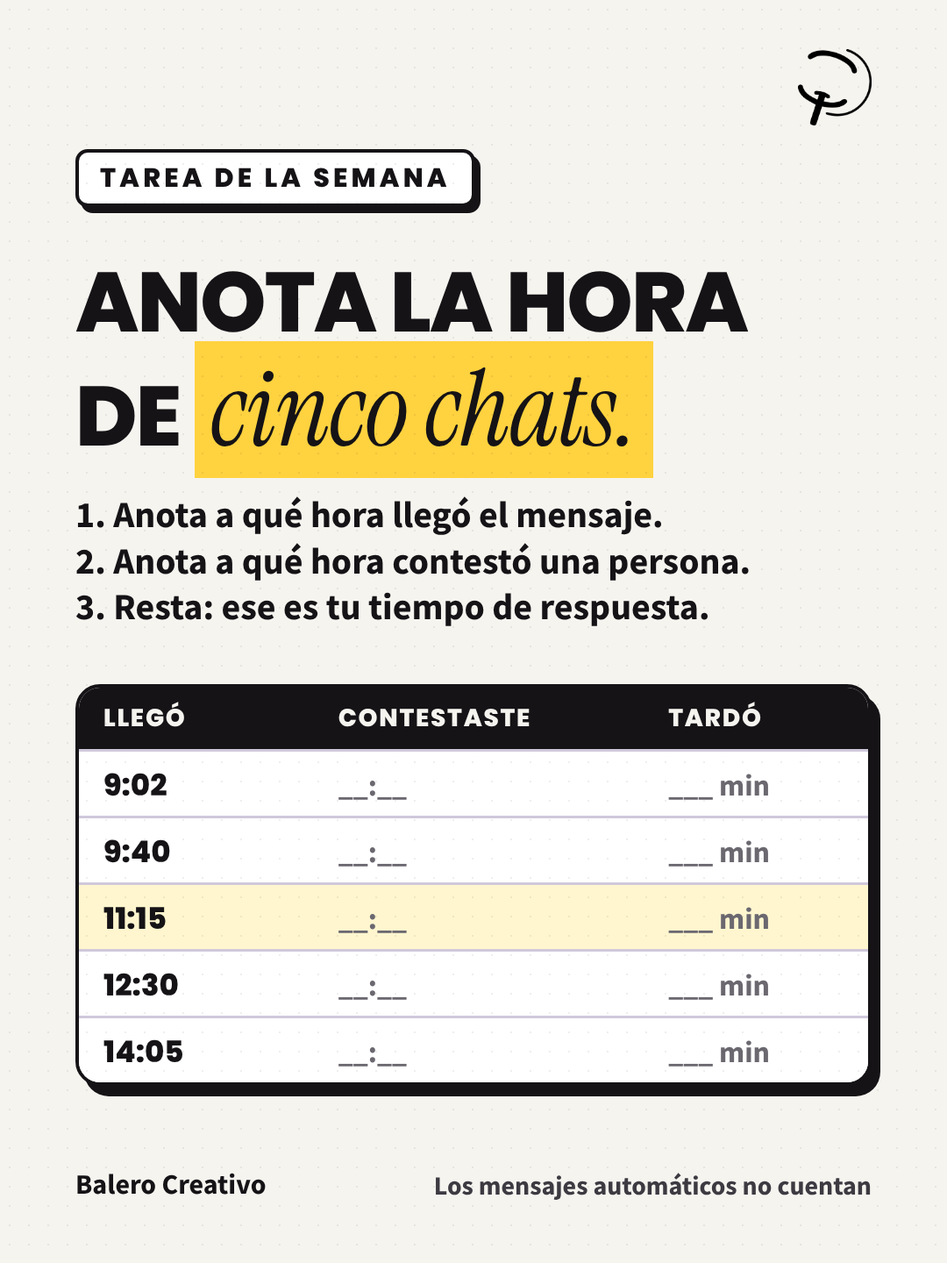
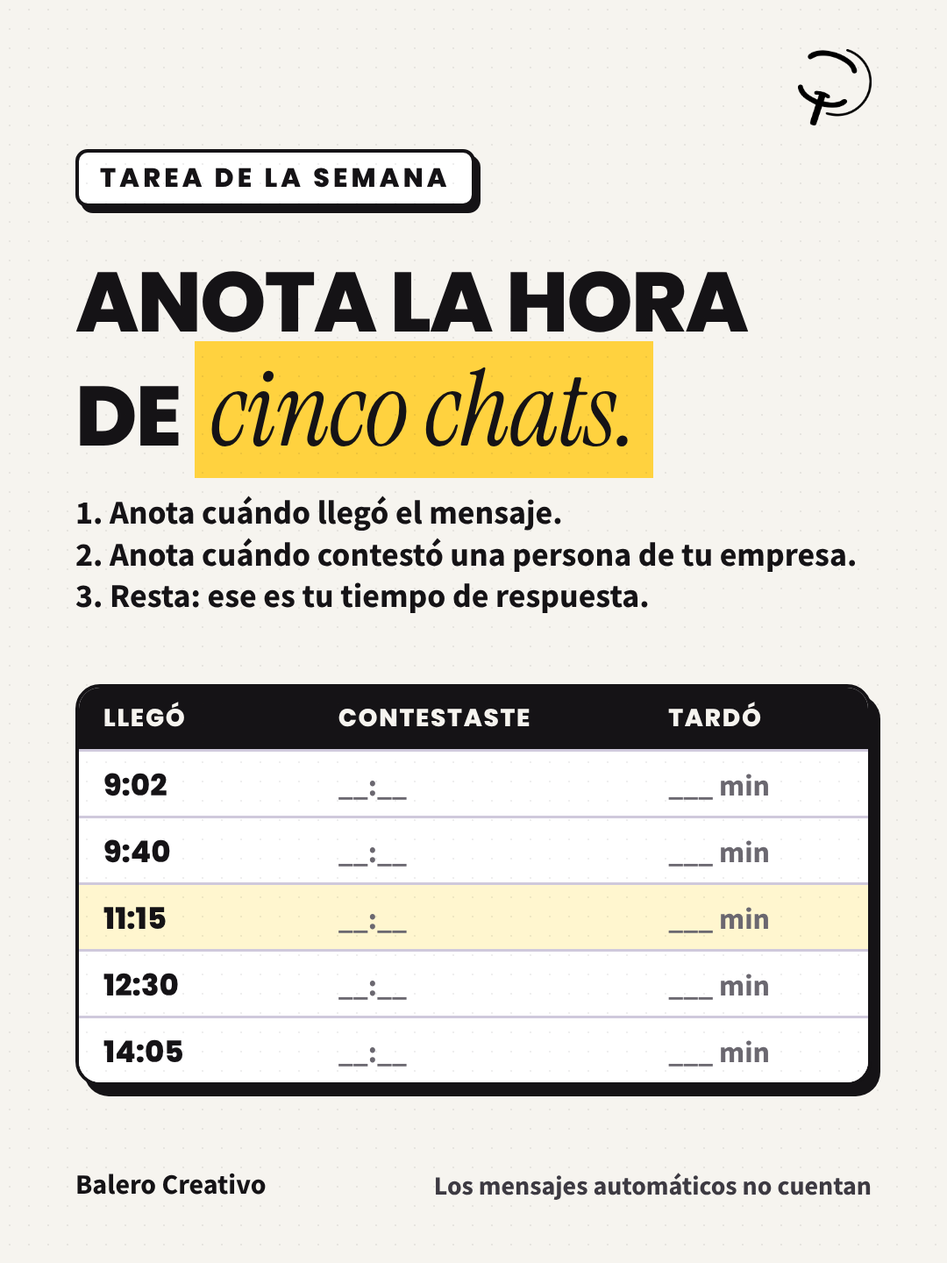
Semana 17: precisar 'una persona de tu empresa' en la imagen y el texto del post del viernes
Claude-Session: https://claude.ai/code/session_01Bq7ZC7FDz5LcdZBgNXTuBm

Changed region(s): [[0.0611, 0.375, 0.8861, 0.5]]

diff --git a/clientes/balero/diseno/2026-11/estilo-editorial/semana/sem17b.html b/clientes/balero/diseno/2026-11/estilo-editorial/semana/sem17b.html
@@ -60,4 +60,4 @@ body{background:#888}
 .meter{position:absolute;left:86px;right:86px;background:#fff;border:4px solid #151316;border-radius:26px;box-shadow:10px 12px 0 #151316;overflow:hidden}
 
 .bigy{position:absolute;left:86px;font:800 330px/.9 Poppins;background:#FFD23F;padding:10px 30px 24px;letter-spacing:-.04em}
-</style></head><body><div class="s" id="s1"><div class="dots"><i style="background:#151316"></i><i style="background:#cfc9dc"></i></div><img class="logo" src="/home/user/balero/.claude/skills/balero-imagenes/assets/logo-balero.png"><style>.dots{display:none}</style><div class="chip">TAREA DE LA SEMANA</div><div class="t" style="top:290px;font-size:96px">Anota la hora<br>de <span class="serif" style="font-size:1.25em;text-transform:none;font-weight:400;background:#FFD23F;padding:0 18px">cinco chats.</span></div><div style="position:absolute;left:86px;top:560px;width:880px;font:700 42px/1.25 'Source Sans Pro',sans-serif;color:#151316">1. Anota a qué hora llegó el mensaje.<br>2. Anota a qué hora contestó una persona.<br>3. Resta: ese es tu tiempo de respuesta.</div><div style="position:absolute;left:86px;top:780px;width:908px;background:#fff;border:4px solid #151316;border-radius:28px;box-shadow:10px 12px 0 #151316;overflow:hidden"><div style="display:flex;height:70px;background:#151316"><div style="width:270px;padding:0 28px;font:800 28px/70px Poppins;color:#F6F4EF;letter-spacing:.06em;white-space:nowrap">LLEGÓ</div><div style="width:380px;padding:0 28px;font:800 28px/70px Poppins;color:#F6F4EF;letter-spacing:.06em;white-space:nowrap">CONTESTASTE</div><div style="width:258px;padding:0 28px;font:800 28px/70px Poppins;color:#F6F4EF;letter-spacing:.06em;white-space:nowrap">TARDÓ</div></div><div style="display:flex;height:76px;border-top:3px solid #cfc9dc;background:#fff"><div style="width:270px;padding:0 28px;font:800 34px/76px Poppins">9:02</div><div style="width:380px;padding:0 28px;font:700 34px/76px 'Source Sans Pro',sans-serif;color:#6B6870">__:__</div><div style="width:258px;padding:0 28px;font:700 34px/76px 'Source Sans Pro',sans-serif;color:#6B6870">___ min</div></div><div style="display:flex;height:76px;border-top:3px solid #cfc9dc;background:#fff"><div style="width:270px;padding:0 28px;font:800 34px/76px Poppins">9:40</div><div style="width:380px;padding:0 28px;font:700 34px/76px 'Source Sans Pro',sans-serif;color:#6B6870">__:__</div><div style="width:258px;padding:0 28px;font:700 34px/76px 'Source Sans Pro',sans-serif;color:#6B6870">___ min</div></div><div style="display:flex;height:76px;border-top:3px solid #cfc9dc;background:#FFF6CF"><div style="width:270px;padding:0 28px;font:800 34px/76px Poppins">11:15</div><div style="width:380px;padding:0 28px;font:700 34px/76px 'Source Sans Pro',sans-serif;color:#6B6870">__:__</div><div style="width:258px;padding:0 28px;font:700 34px/76px 'Source Sans Pro',sans-serif;color:#6B6870">___ min</div></div><div style="display:flex;height:76px;border-top:3px solid #cfc9dc;background:#fff"><div style="width:270px;padding:0 28px;font:800 34px/76px Poppins">12:30</div><div style="width:380px;padding:0 28px;font:700 34px/76px 'Source Sans Pro',sans-serif;color:#6B6870">__:__</div><div style="width:258px;padding:0 28px;font:700 34px/76px 'Source Sans Pro',sans-serif;color:#6B6870">___ min</div></div><div style="display:flex;height:76px;border-top:3px solid #cfc9dc;background:#fff"><div style="width:270px;padding:0 28px;font:800 34px/76px Poppins">14:05</div><div style="width:380px;padding:0 28px;font:700 34px/76px 'Source Sans Pro',sans-serif;color:#6B6870">__:__</div><div style="width:258px;padding:0 28px;font:700 34px/76px 'Source Sans Pro',sans-serif;color:#6B6870">___ min</div></div></div><div class="foot"><span>Balero Creativo</span></div><div style="position:absolute;right:86px;bottom:70px;font:700 30px 'Source Sans Pro';color:#3d3a42;text-align:right;max-width:640px">Los mensajes automáticos no cuentan</div></div><div class="s" id="s2"><div class="dots"><i style="background:#cfc9dc"></i><i style="background:#151316"></i></div><img class="logo" src="/home/user/balero/.claude/skills/balero-imagenes/assets/logo-balero.png"><style>.dots{display:none}</style><div class="chip">META ADS</div><div class="t" style="top:290px;font-size:100px">De imagen<br>a <span class="serif" style="font-size:1.25em;text-transform:none;font-weight:400;background:#FFD23F;padding:0 18px">video.</span></div><div style="position:absolute;left:86px;top:600px;width:880px;font:700 42px/1.25 'Source Sans Pro',sans-serif;color:#151316">Meta ofrece generar video a partir de tus imágenes con IA.</div><div style="position:absolute;left:86px;top:720px;width:340px;height:180px;background:#B9A3E8;border:4px solid #151316;border-radius:26px;box-shadow:9px 10px 0 #151316"><div style="position:absolute;left:24px;top:16px;font:800 26px Poppins;letter-spacing:.12em">IMAGEN</div><div style="position:absolute;left:24px;right:24px;top:62px;bottom:22px;background:#fff;border:3px solid #151316;border-radius:14px"><div style="position:absolute;left:18px;bottom:0;width:90px;height:60px;background:#151316;clip-path:polygon(0 100%,50% 20%,100% 100%)"></div><div style="position:absolute;right:24px;top:14px;width:34px;height:34px;border-radius:50%;background:#FFD23F;border:3px solid #151316"></div></div></div><div class="sc" style="left:468px;top:765px;font-size:96px">→</div><div style="position:absolute;left:654px;top:720px;width:340px;height:180px;background:#FFD23F;border:4px solid #151316;border-radius:26px;box-shadow:9px 10px 0 #151316"><div style="position:absolute;left:24px;top:16px;font:800 26px Poppins;letter-spacing:.12em">VIDEO</div><div style="position:absolute;left:0;right:0;top:56px;bottom:0;display:flex;align-items:center;justify-content:center"><div style="width:96px;height:96px;border-radius:50%;background:#151316"><div style="margin:26px 0 0 38px;width:0;height:0;border-left:36px solid #FFD23F;border-top:22px solid transparent;border-bottom:22px solid transparent"></div></div></div></div><div style="position:absolute;left:86px;top:930px;width:908px;height:108px;background:#fff;border:4px solid #151316;border-radius:26px;box-shadow:9px 10px 0 #151316"><div style="position:absolute;left:28px;top:18px;width:64px;height:64px;border-radius:50%;background:#FFD23F;border:4px solid #151316;font:800 32px/56px Poppins;text-align:center">1</div><div style="position:absolute;left:122px;right:24px;top:0;bottom:0;display:flex;align-items:center;font:700 38px/1.15 'Source Sans Pro',sans-serif">Que siga reflejando tu marca</div></div><div style="position:absolute;left:86px;top:1050px;width:908px;height:108px;background:#fff;border:4px solid #151316;border-radius:26px;box-shadow:9px 10px 0 #151316"><div style="position:absolute;left:28px;top:18px;width:64px;height:64px;border-radius:50%;background:#FFD23F;border:4px solid #151316;font:800 32px/56px Poppins;text-align:center">2</div><div style="position:absolute;left:122px;right:24px;top:0;bottom:0;display:flex;align-items:center;font:700 38px/1.15 'Source Sans Pro',sans-serif">Que se entienda sin sonido</div></div><div style="position:absolute;left:86px;top:1170px;width:908px;height:108px;background:#fff;border:4px solid #151316;border-radius:26px;box-shadow:9px 10px 0 #151316"><div style="position:absolute;left:28px;top:18px;width:64px;height:64px;border-radius:50%;background:#FFD23F;border:4px solid #151316;font:800 32px/56px Poppins;text-align:center">3</div><div style="position:absolute;left:122px;right:24px;top:0;bottom:0;display:flex;align-items:center;font:700 38px/1.15 'Source Sans Pro',sans-serif">Que la oferta sea la misma</div></div><div class="foot"><span>Balero Creativo</span></div><div style="position:absolute;right:86px;bottom:70px;font:700 30px 'Source Sans Pro';color:#3d3a42;text-align:right;max-width:640px">Revisa si lo tienes en tu cuenta</div></div></body></html>
+</style></head><body><div class="s" id="s1"><div class="dots"><i style="background:#151316"></i><i style="background:#cfc9dc"></i></div><img class="logo" src="/home/user/balero/.claude/skills/balero-imagenes/assets/logo-balero.png"><style>.dots{display:none}</style><div class="chip">TAREA DE LA SEMANA</div><div class="t" style="top:290px;font-size:96px">Anota la hora<br>de <span class="serif" style="font-size:1.25em;text-transform:none;font-weight:400;background:#FFD23F;padding:0 18px">cinco chats.</span></div><div style="position:absolute;left:86px;top:560px;width:908px;font:700 38px/1.25 'Source Sans Pro',sans-serif;color:#151316">1. Anota cuándo llegó el mensaje.<br>2. Anota cuándo contestó una persona de tu empresa.<br>3. Resta: ese es tu tiempo de respuesta.</div><div style="position:absolute;left:86px;top:780px;width:908px;background:#fff;border:4px solid #151316;border-radius:28px;box-shadow:10px 12px 0 #151316;overflow:hidden"><div style="display:flex;height:70px;background:#151316"><div style="width:270px;padding:0 28px;font:800 28px/70px Poppins;color:#F6F4EF;letter-spacing:.06em;white-space:nowrap">LLEGÓ</div><div style="width:380px;padding:0 28px;font:800 28px/70px Poppins;color:#F6F4EF;letter-spacing:.06em;white-space:nowrap">CONTESTASTE</div><div style="width:258px;padding:0 28px;font:800 28px/70px Poppins;color:#F6F4EF;letter-spacing:.06em;white-space:nowrap">TARDÓ</div></div><div style="display:flex;height:76px;border-top:3px solid #cfc9dc;background:#fff"><div style="width:270px;padding:0 28px;font:800 34px/76px Poppins">9:02</div><div style="width:380px;padding:0 28px;font:700 34px/76px 'Source Sans Pro',sans-serif;color:#6B6870">__:__</div><div style="width:258px;padding:0 28px;font:700 34px/76px 'Source Sans Pro',sans-serif;color:#6B6870">___ min</div></div><div style="display:flex;height:76px;border-top:3px solid #cfc9dc;background:#fff"><div style="width:270px;padding:0 28px;font:800 34px/76px Poppins">9:40</div><div style="width:380px;padding:0 28px;font:700 34px/76px 'Source Sans Pro',sans-serif;color:#6B6870">__:__</div><div style="width:258px;padding:0 28px;font:700 34px/76px 'Source Sans Pro',sans-serif;color:#6B6870">___ min</div></div><div style="display:flex;height:76px;border-top:3px solid #cfc9dc;background:#FFF6CF"><div style="width:270px;padding:0 28px;font:800 34px/76px Poppins">11:15</div><div style="width:380px;padding:0 28px;font:700 34px/76px 'Source Sans Pro',sans-serif;color:#6B6870">__:__</div><div style="width:258px;padding:0 28px;font:700 34px/76px 'Source Sans Pro',sans-serif;color:#6B6870">___ min</div></div><div style="display:flex;height:76px;border-top:3px solid #cfc9dc;background:#fff"><div style="width:270px;padding:0 28px;font:800 34px/76px Poppins">12:30</div><div style="width:380px;padding:0 28px;font:700 34px/76px 'Source Sans Pro',sans-serif;color:#6B6870">__:__</div><div style="width:258px;padding:0 28px;font:700 34px/76px 'Source Sans Pro',sans-serif;color:#6B6870">___ min</div></div><div style="display:flex;height:76px;border-top:3px solid #cfc9dc;background:#fff"><div style="width:270px;padding:0 28px;font:800 34px/76px Poppins">14:05</div><div style="width:380px;padding:0 28px;font:700 34px/76px 'Source Sans Pro',sans-serif;color:#6B6870">__:__</div><div style="width:258px;padding:0 28px;font:700 34px/76px 'Source Sans Pro',sans-serif;color:#6B6870">___ min</div></div></div><div class="foot"><span>Balero Creativo</span></div><div style="position:absolute;right:86px;bottom:70px;font:700 30px 'Source Sans Pro';color:#3d3a42;text-align:right;max-width:640px">Los mensajes automáticos no cuentan</div></div><div class="s" id="s2"><div class="dots"><i style="background:#cfc9dc"></i><i style="background:#151316"></i></div><img class="logo" src="/home/user/balero/.claude/skills/balero-imagenes/assets/logo-balero.png"><style>.dots{display:none}</style><div class="chip">META ADS</div><div class="t" style="top:290px;font-size:100px">De imagen<br>a <span class="serif" style="font-size:1.25em;text-transform:none;font-weight:400;background:#FFD23F;padding:0 18px">video.</span></div><div style="position:absolute;left:86px;top:600px;width:880px;font:700 42px/1.25 'Source Sans Pro',sans-serif;color:#151316">Meta ofrece generar video a partir de tus imágenes con IA.</div><div style="position:absolute;left:86px;top:720px;width:340px;height:180px;background:#B9A3E8;border:4px solid #151316;border-radius:26px;box-shadow:9px 10px 0 #151316"><div style="position:absolute;left:24px;top:16px;font:800 26px Poppins;letter-spacing:.12em">IMAGEN</div><div style="position:absolute;left:24px;right:24px;top:62px;bottom:22px;background:#fff;border:3px solid #151316;border-radius:14px"><div style="position:absolute;left:18px;bottom:0;width:90px;height:60px;background:#151316;clip-path:polygon(0 100%,50% 20%,100% 100%)"></div><div style="position:absolute;right:24px;top:14px;width:34px;height:34px;border-radius:50%;background:#FFD23F;border:3px solid #151316"></div></div></div><div class="sc" style="left:468px;top:765px;font-size:96px">→</div><div style="position:absolute;left:654px;top:720px;width:340px;height:180px;background:#FFD23F;border:4px solid #151316;border-radius:26px;box-shadow:9px 10px 0 #151316"><div style="position:absolute;left:24px;top:16px;font:800 26px Poppins;letter-spacing:.12em">VIDEO</div><div style="position:absolute;left:0;right:0;top:56px;bottom:0;display:flex;align-items:center;justify-content:center"><div style="width:96px;height:96px;border-radius:50%;background:#151316"><div style="margin:26px 0 0 38px;width:0;height:0;border-left:36px solid #FFD23F;border-top:22px solid transparent;border-bottom:22px solid transparent"></div></div></div></div><div style="position:absolute;left:86px;top:930px;width:908px;height:108px;background:#fff;border:4px solid #151316;border-radius:26px;box-shadow:9px 10px 0 #151316"><div style="position:absolute;left:28px;top:18px;width:64px;height:64px;border-radius:50%;background:#FFD23F;border:4px solid #151316;font:800 32px/56px Poppins;text-align:center">1</div><div style="position:absolute;left:122px;right:24px;top:0;bottom:0;display:flex;align-items:center;font:700 38px/1.15 'Source Sans Pro',sans-serif">Que siga reflejando tu marca</div></div><div style="position:absolute;left:86px;top:1050px;width:908px;height:108px;background:#fff;border:4px solid #151316;border-radius:26px;box-shadow:9px 10px 0 #151316"><div style="position:absolute;left:28px;top:18px;width:64px;height:64px;border-radius:50%;background:#FFD23F;border:4px solid #151316;font:800 32px/56px Poppins;text-align:center">2</div><div style="position:absolute;left:122px;right:24px;top:0;bottom:0;display:flex;align-items:center;font:700 38px/1.15 'Source Sans Pro',sans-serif">Que se entienda sin sonido</div></div><div style="position:absolute;left:86px;top:1170px;width:908px;height:108px;background:#fff;border:4px solid #151316;border-radius:26px;box-shadow:9px 10px 0 #151316"><div style="position:absolute;left:28px;top:18px;width:64px;height:64px;border-radius:50%;background:#FFD23F;border:4px solid #151316;font:800 32px/56px Poppins;text-align:center">3</div><div style="position:absolute;left:122px;right:24px;top:0;bottom:0;display:flex;align-items:center;font:700 38px/1.15 'Source Sans Pro',sans-serif">Que la oferta sea la misma</div></div><div class="foot"><span>Balero Creativo</span></div><div style="position:absolute;right:86px;bottom:70px;font:700 30px 'Source Sans Pro';color:#3d3a42;text-align:right;max-width:640px">Revisa si lo tienes en tu cuenta</div></div></body></html>

diff --git a/clientes/balero/diseno/2026-11/semana-17/viernes-sabado/sem17b.html b/clientes/balero/diseno/2026-11/semana-17/viernes-sabado/sem17b.html
@@ -60,4 +60,4 @@ body{background:#888}
 .meter{position:absolute;left:86px;right:86px;background:#fff;border:4px solid #151316;border-radius:26px;box-shadow:10px 12px 0 #151316;overflow:hidden}
 
 .bigy{position:absolute;left:86px;font:800 330px/.9 Poppins;background:#FFD23F;padding:10px 30px 24px;letter-spacing:-.04em}
-</style></head><body><div class="s" id="s1"><div class="dots"><i style="background:#151316"></i><i style="background:#cfc9dc"></i></div><img class="logo" src="/home/user/balero/.claude/skills/balero-imagenes/assets/logo-balero.png"><style>.dots{display:none}</style><div class="chip">TAREA DE LA SEMANA</div><div class="t" style="top:290px;font-size:96px">Anota la hora<br>de <span class="serif" style="font-size:1.25em;text-transform:none;font-weight:400;background:#FFD23F;padding:0 18px">cinco chats.</span></div><div style="position:absolute;left:86px;top:560px;width:880px;font:700 42px/1.25 'Source Sans Pro',sans-serif;color:#151316">1. Anota a qué hora llegó el mensaje.<br>2. Anota a qué hora contestó una persona.<br>3. Resta: ese es tu tiempo de respuesta.</div><div style="position:absolute;left:86px;top:780px;width:908px;background:#fff;border:4px solid #151316;border-radius:28px;box-shadow:10px 12px 0 #151316;overflow:hidden"><div style="display:flex;height:70px;background:#151316"><div style="width:270px;padding:0 28px;font:800 28px/70px Poppins;color:#F6F4EF;letter-spacing:.06em;white-space:nowrap">LLEGÓ</div><div style="width:380px;padding:0 28px;font:800 28px/70px Poppins;color:#F6F4EF;letter-spacing:.06em;white-space:nowrap">CONTESTASTE</div><div style="width:258px;padding:0 28px;font:800 28px/70px Poppins;color:#F6F4EF;letter-spacing:.06em;white-space:nowrap">TARDÓ</div></div><div style="display:flex;height:76px;border-top:3px solid #cfc9dc;background:#fff"><div style="width:270px;padding:0 28px;font:800 34px/76px Poppins">9:02</div><div style="width:380px;padding:0 28px;font:700 34px/76px 'Source Sans Pro',sans-serif;color:#6B6870">__:__</div><div style="width:258px;padding:0 28px;font:700 34px/76px 'Source Sans Pro',sans-serif;color:#6B6870">___ min</div></div><div style="display:flex;height:76px;border-top:3px solid #cfc9dc;background:#fff"><div style="width:270px;padding:0 28px;font:800 34px/76px Poppins">9:40</div><div style="width:380px;padding:0 28px;font:700 34px/76px 'Source Sans Pro',sans-serif;color:#6B6870">__:__</div><div style="width:258px;padding:0 28px;font:700 34px/76px 'Source Sans Pro',sans-serif;color:#6B6870">___ min</div></div><div style="display:flex;height:76px;border-top:3px solid #cfc9dc;background:#FFF6CF"><div style="width:270px;padding:0 28px;font:800 34px/76px Poppins">11:15</div><div style="width:380px;padding:0 28px;font:700 34px/76px 'Source Sans Pro',sans-serif;color:#6B6870">__:__</div><div style="width:258px;padding:0 28px;font:700 34px/76px 'Source Sans Pro',sans-serif;color:#6B6870">___ min</div></div><div style="display:flex;height:76px;border-top:3px solid #cfc9dc;background:#fff"><div style="width:270px;padding:0 28px;font:800 34px/76px Poppins">12:30</div><div style="width:380px;padding:0 28px;font:700 34px/76px 'Source Sans Pro',sans-serif;color:#6B6870">__:__</div><div style="width:258px;padding:0 28px;font:700 34px/76px 'Source Sans Pro',sans-serif;color:#6B6870">___ min</div></div><div style="display:flex;height:76px;border-top:3px solid #cfc9dc;background:#fff"><div style="width:270px;padding:0 28px;font:800 34px/76px Poppins">14:05</div><div style="width:380px;padding:0 28px;font:700 34px/76px 'Source Sans Pro',sans-serif;color:#6B6870">__:__</div><div style="width:258px;padding:0 28px;font:700 34px/76px 'Source Sans Pro',sans-serif;color:#6B6870">___ min</div></div></div><div class="foot"><span>Balero Creativo</span></div><div style="position:absolute;right:86px;bottom:70px;font:700 30px 'Source Sans Pro';color:#3d3a42;text-align:right;max-width:640px">Los mensajes automáticos no cuentan</div></div><div class="s" id="s2"><div class="dots"><i style="background:#cfc9dc"></i><i style="background:#151316"></i></div><img class="logo" src="/home/user/balero/.claude/skills/balero-imagenes/assets/logo-balero.png"><style>.dots{display:none}</style><div class="chip">META ADS</div><div class="t" style="top:290px;font-size:100px">De imagen<br>a <span class="serif" style="font-size:1.25em;text-transform:none;font-weight:400;background:#FFD23F;padding:0 18px">video.</span></div><div style="position:absolute;left:86px;top:600px;width:880px;font:700 42px/1.25 'Source Sans Pro',sans-serif;color:#151316">Meta ofrece generar video a partir de tus imágenes con IA.</div><div style="position:absolute;left:86px;top:720px;width:340px;height:180px;background:#B9A3E8;border:4px solid #151316;border-radius:26px;box-shadow:9px 10px 0 #151316"><div style="position:absolute;left:24px;top:16px;font:800 26px Poppins;letter-spacing:.12em">IMAGEN</div><div style="position:absolute;left:24px;right:24px;top:62px;bottom:22px;background:#fff;border:3px solid #151316;border-radius:14px"><div style="position:absolute;left:18px;bottom:0;width:90px;height:60px;background:#151316;clip-path:polygon(0 100%,50% 20%,100% 100%)"></div><div style="position:absolute;right:24px;top:14px;width:34px;height:34px;border-radius:50%;background:#FFD23F;border:3px solid #151316"></div></div></div><div class="sc" style="left:468px;top:765px;font-size:96px">→</div><div style="position:absolute;left:654px;top:720px;width:340px;height:180px;background:#FFD23F;border:4px solid #151316;border-radius:26px;box-shadow:9px 10px 0 #151316"><div style="position:absolute;left:24px;top:16px;font:800 26px Poppins;letter-spacing:.12em">VIDEO</div><div style="position:absolute;left:0;right:0;top:56px;bottom:0;display:flex;align-items:center;justify-content:center"><div style="width:96px;height:96px;border-radius:50%;background:#151316"><div style="margin:26px 0 0 38px;width:0;height:0;border-left:36px solid #FFD23F;border-top:22px solid transparent;border-bottom:22px solid transparent"></div></div></div></div><div style="position:absolute;left:86px;top:930px;width:908px;height:108px;background:#fff;border:4px solid #151316;border-radius:26px;box-shadow:9px 10px 0 #151316"><div style="position:absolute;left:28px;top:18px;width:64px;height:64px;border-radius:50%;background:#FFD23F;border:4px solid #151316;font:800 32px/56px Poppins;text-align:center">1</div><div style="position:absolute;left:122px;right:24px;top:0;bottom:0;display:flex;align-items:center;font:700 38px/1.15 'Source Sans Pro',sans-serif">Que siga reflejando tu marca</div></div><div style="position:absolute;left:86px;top:1050px;width:908px;height:108px;background:#fff;border:4px solid #151316;border-radius:26px;box-shadow:9px 10px 0 #151316"><div style="position:absolute;left:28px;top:18px;width:64px;height:64px;border-radius:50%;background:#FFD23F;border:4px solid #151316;font:800 32px/56px Poppins;text-align:center">2</div><div style="position:absolute;left:122px;right:24px;top:0;bottom:0;display:flex;align-items:center;font:700 38px/1.15 'Source Sans Pro',sans-serif">Que se entienda sin sonido</div></div><div style="position:absolute;left:86px;top:1170px;width:908px;height:108px;background:#fff;border:4px solid #151316;border-radius:26px;box-shadow:9px 10px 0 #151316"><div style="position:absolute;left:28px;top:18px;width:64px;height:64px;border-radius:50%;background:#FFD23F;border:4px solid #151316;font:800 32px/56px Poppins;text-align:center">3</div><div style="position:absolute;left:122px;right:24px;top:0;bottom:0;display:flex;align-items:center;font:700 38px/1.15 'Source Sans Pro',sans-serif">Que la oferta sea la misma</div></div><div class="foot"><span>Balero Creativo</span></div><div style="position:absolute;right:86px;bottom:70px;font:700 30px 'Source Sans Pro';color:#3d3a42;text-align:right;max-width:640px">Revisa si lo tienes en tu cuenta</div></div></body></html>
+</style></head><body><div class="s" id="s1"><div class="dots"><i style="background:#151316"></i><i style="background:#cfc9dc"></i></div><img class="logo" src="/home/user/balero/.claude/skills/balero-imagenes/assets/logo-balero.png"><style>.dots{display:none}</style><div class="chip">TAREA DE LA SEMANA</div><div class="t" style="top:290px;font-size:96px">Anota la hora<br>de <span class="serif" style="font-size:1.25em;text-transform:none;font-weight:400;background:#FFD23F;padding:0 18px">cinco chats.</span></div><div style="position:absolute;left:86px;top:560px;width:908px;font:700 38px/1.25 'Source Sans Pro',sans-serif;color:#151316">1. Anota cuándo llegó el mensaje.<br>2. Anota cuándo contestó una persona de tu empresa.<br>3. Resta: ese es tu tiempo de respuesta.</div><div style="position:absolute;left:86px;top:780px;width:908px;background:#fff;border:4px solid #151316;border-radius:28px;box-shadow:10px 12px 0 #151316;overflow:hidden"><div style="display:flex;height:70px;background:#151316"><div style="width:270px;padding:0 28px;font:800 28px/70px Poppins;color:#F6F4EF;letter-spacing:.06em;white-space:nowrap">LLEGÓ</div><div style="width:380px;padding:0 28px;font:800 28px/70px Poppins;color:#F6F4EF;letter-spacing:.06em;white-space:nowrap">CONTESTASTE</div><div style="width:258px;padding:0 28px;font:800 28px/70px Poppins;color:#F6F4EF;letter-spacing:.06em;white-space:nowrap">TARDÓ</div></div><div style="display:flex;height:76px;border-top:3px solid #cfc9dc;background:#fff"><div style="width:270px;padding:0 28px;font:800 34px/76px Poppins">9:02</div><div style="width:380px;padding:0 28px;font:700 34px/76px 'Source Sans Pro',sans-serif;color:#6B6870">__:__</div><div style="width:258px;padding:0 28px;font:700 34px/76px 'Source Sans Pro',sans-serif;color:#6B6870">___ min</div></div><div style="display:flex;height:76px;border-top:3px solid #cfc9dc;background:#fff"><div style="width:270px;padding:0 28px;font:800 34px/76px Poppins">9:40</div><div style="width:380px;padding:0 28px;font:700 34px/76px 'Source Sans Pro',sans-serif;color:#6B6870">__:__</div><div style="width:258px;padding:0 28px;font:700 34px/76px 'Source Sans Pro',sans-serif;color:#6B6870">___ min</div></div><div style="display:flex;height:76px;border-top:3px solid #cfc9dc;background:#FFF6CF"><div style="width:270px;padding:0 28px;font:800 34px/76px Poppins">11:15</div><div style="width:380px;padding:0 28px;font:700 34px/76px 'Source Sans Pro',sans-serif;color:#6B6870">__:__</div><div style="width:258px;padding:0 28px;font:700 34px/76px 'Source Sans Pro',sans-serif;color:#6B6870">___ min</div></div><div style="display:flex;height:76px;border-top:3px solid #cfc9dc;background:#fff"><div style="width:270px;padding:0 28px;font:800 34px/76px Poppins">12:30</div><div style="width:380px;padding:0 28px;font:700 34px/76px 'Source Sans Pro',sans-serif;color:#6B6870">__:__</div><div style="width:258px;padding:0 28px;font:700 34px/76px 'Source Sans Pro',sans-serif;color:#6B6870">___ min</div></div><div style="display:flex;height:76px;border-top:3px solid #cfc9dc;background:#fff"><div style="width:270px;padding:0 28px;font:800 34px/76px Poppins">14:05</div><div style="width:380px;padding:0 28px;font:700 34px/76px 'Source Sans Pro',sans-serif;color:#6B6870">__:__</div><div style="width:258px;padding:0 28px;font:700 34px/76px 'Source Sans Pro',sans-serif;color:#6B6870">___ min</div></div></div><div class="foot"><span>Balero Creativo</span></div><div style="position:absolute;right:86px;bottom:70px;font:700 30px 'Source Sans Pro';color:#3d3a42;text-align:right;max-width:640px">Los mensajes automáticos no cuentan</div></div><div class="s" id="s2"><div class="dots"><i style="background:#cfc9dc"></i><i style="background:#151316"></i></div><img class="logo" src="/home/user/balero/.claude/skills/balero-imagenes/assets/logo-balero.png"><style>.dots{display:none}</style><div class="chip">META ADS</div><div class="t" style="top:290px;font-size:100px">De imagen<br>a <span class="serif" style="font-size:1.25em;text-transform:none;font-weight:400;background:#FFD23F;padding:0 18px">video.</span></div><div style="position:absolute;left:86px;top:600px;width:880px;font:700 42px/1.25 'Source Sans Pro',sans-serif;color:#151316">Meta ofrece generar video a partir de tus imágenes con IA.</div><div style="position:absolute;left:86px;top:720px;width:340px;height:180px;background:#B9A3E8;border:4px solid #151316;border-radius:26px;box-shadow:9px 10px 0 #151316"><div style="position:absolute;left:24px;top:16px;font:800 26px Poppins;letter-spacing:.12em">IMAGEN</div><div style="position:absolute;left:24px;right:24px;top:62px;bottom:22px;background:#fff;border:3px solid #151316;border-radius:14px"><div style="position:absolute;left:18px;bottom:0;width:90px;height:60px;background:#151316;clip-path:polygon(0 100%,50% 20%,100% 100%)"></div><div style="position:absolute;right:24px;top:14px;width:34px;height:34px;border-radius:50%;background:#FFD23F;border:3px solid #151316"></div></div></div><div class="sc" style="left:468px;top:765px;font-size:96px">→</div><div style="position:absolute;left:654px;top:720px;width:340px;height:180px;background:#FFD23F;border:4px solid #151316;border-radius:26px;box-shadow:9px 10px 0 #151316"><div style="position:absolute;left:24px;top:16px;font:800 26px Poppins;letter-spacing:.12em">VIDEO</div><div style="position:absolute;left:0;right:0;top:56px;bottom:0;display:flex;align-items:center;justify-content:center"><div style="width:96px;height:96px;border-radius:50%;background:#151316"><div style="margin:26px 0 0 38px;width:0;height:0;border-left:36px solid #FFD23F;border-top:22px solid transparent;border-bottom:22px solid transparent"></div></div></div></div><div style="position:absolute;left:86px;top:930px;width:908px;height:108px;background:#fff;border:4px solid #151316;border-radius:26px;box-shadow:9px 10px 0 #151316"><div style="position:absolute;left:28px;top:18px;width:64px;height:64px;border-radius:50%;background:#FFD23F;border:4px solid #151316;font:800 32px/56px Poppins;text-align:center">1</div><div style="position:absolute;left:122px;right:24px;top:0;bottom:0;display:flex;align-items:center;font:700 38px/1.15 'Source Sans Pro',sans-serif">Que siga reflejando tu marca</div></div><div style="position:absolute;left:86px;top:1050px;width:908px;height:108px;background:#fff;border:4px solid #151316;border-radius:26px;box-shadow:9px 10px 0 #151316"><div style="position:absolute;left:28px;top:18px;width:64px;height:64px;border-radius:50%;background:#FFD23F;border:4px solid #151316;font:800 32px/56px Poppins;text-align:center">2</div><div style="position:absolute;left:122px;right:24px;top:0;bottom:0;display:flex;align-items:center;font:700 38px/1.15 'Source Sans Pro',sans-serif">Que se entienda sin sonido</div></div><div style="position:absolute;left:86px;top:1170px;width:908px;height:108px;background:#fff;border:4px solid #151316;border-radius:26px;box-shadow:9px 10px 0 #151316"><div style="position:absolute;left:28px;top:18px;width:64px;height:64px;border-radius:50%;background:#FFD23F;border:4px solid #151316;font:800 32px/56px Poppins;text-align:center">3</div><div style="position:absolute;left:122px;right:24px;top:0;bottom:0;display:flex;align-items:center;font:700 38px/1.15 'Source Sans Pro',sans-serif">Que la oferta sea la misma</div></div><div class="foot"><span>Balero Creativo</span></div><div style="position:absolute;right:86px;bottom:70px;font:700 30px 'Source Sans Pro';color:#3d3a42;text-align:right;max-width:640px">Revisa si lo tienes en tu cuenta</div></div></body></html>

diff --git a/clientes/balero/diseno/2026-11/estilo-editorial/semana/defs3.py b/clientes/balero/diseno/2026-11/estilo-editorial/semana/defs3.py
@@ -23,7 +23,7 @@ def img2video():
             '<div class="sc" style="left:468px;top:765px;font-size:96px">→</div>'+
             box(654,'#FFD23F','VIDEO',play))
 semana_b=[
- (NODOTS+chip('TAREA DE LA SEMANA')+title('Anota la hora','de '+hl('cinco chats.'),96)+body3('1. Anota a qué hora llegó el mensaje.<br>2. Anota a qué hora contestó una persona.<br>3. Resta: ese es tu tiempo de respuesta.',560)+tiempos(), foot('Los mensajes automáticos no cuentan')),
+ (NODOTS+chip('TAREA DE LA SEMANA')+title('Anota la hora','de '+hl('cinco chats.'),96)+body2('1. Anota cuándo llegó el mensaje.<br>2. Anota cuándo contestó una persona de tu empresa.<br>3. Resta: ese es tu tiempo de respuesta.',560,908)+tiempos(), foot('Los mensajes automáticos no cuentan')),
  (NODOTS+chip('META ADS')+title('De imagen','a '+hl('video.'),100)+body3('Meta ofrece generar video a partir de tus imágenes con IA.',600)+img2video()+
   row3(930,'1','Que siga reflejando tu marca',108,fs=38)+row3(1050,'2','Que se entienda sin sonido',108,fs=38)+row3(1170,'3','Que la oferta sea la misma',108,fs=38), foot('Revisa si lo tienes en tu cuenta')),
 ]

diff --git a/clientes/balero/diseno/2026-11/semana-17/viernes-sabado/defs3.py b/clientes/balero/diseno/2026-11/semana-17/viernes-sabado/defs3.py
@@ -23,7 +23,7 @@ def img2video():
             '<div class="sc" style="left:468px;top:765px;font-size:96px">→</div>'+
             box(654,'#FFD23F','VIDEO',play))
 semana_b=[
- (NODOTS+chip('TAREA DE LA SEMANA')+title('Anota la hora','de '+hl('cinco chats.'),96)+body3('1. Anota a qué hora llegó el mensaje.<br>2. Anota a qué hora contestó una persona.<br>3. Resta: ese es tu tiempo de respuesta.',560)+tiempos(), foot('Los mensajes automáticos no cuentan')),
+ (NODOTS+chip('TAREA DE LA SEMANA')+title('Anota la hora','de '+hl('cinco chats.'),96)+body2('1. Anota cuándo llegó el mensaje.<br>2. Anota cuándo contestó una persona de tu empresa.<br>3. Resta: ese es tu tiempo de respuesta.',560,908)+tiempos(), foot('Los mensajes automáticos no cuentan')),
  (NODOTS+chip('META ADS')+title('De imagen','a '+hl('video.'),100)+body3('Meta ofrece generar video a partir de tus imágenes con IA.',600)+img2video()+
   row3(930,'1','Que siga reflejando tu marca',108,fs=38)+row3(1050,'2','Que se entienda sin sonido',108,fs=38)+row3(1170,'3','Que la oferta sea la misma',108,fs=38), foot('Revisa si lo tienes en tu cuenta')),
 ]
